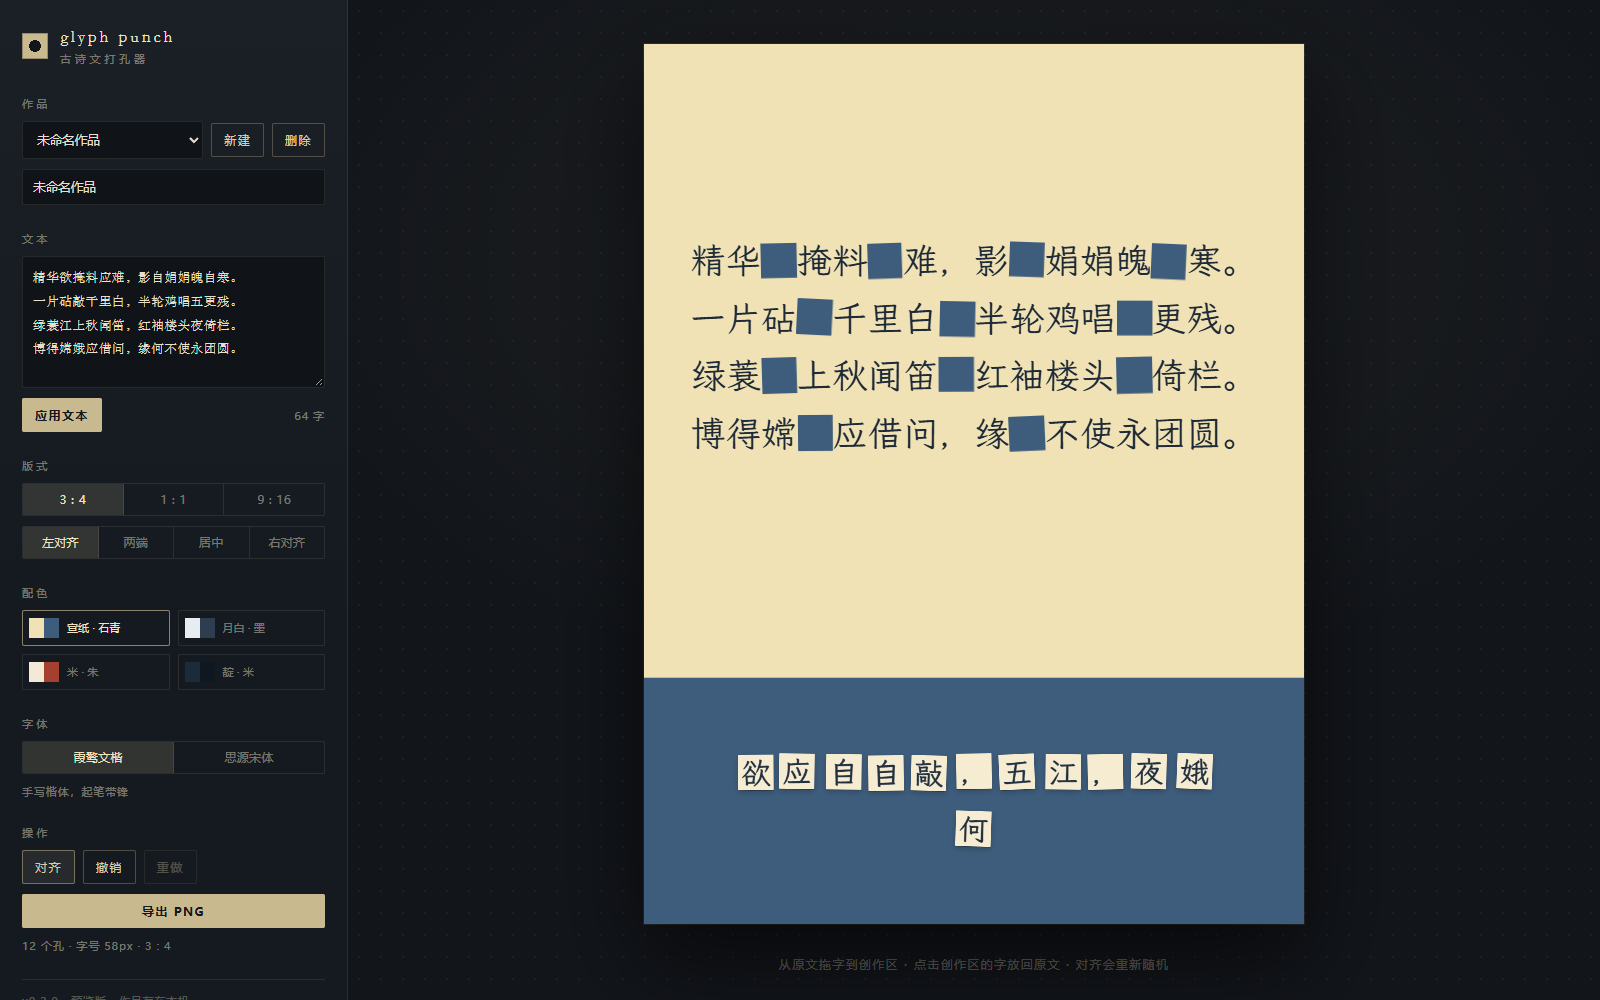
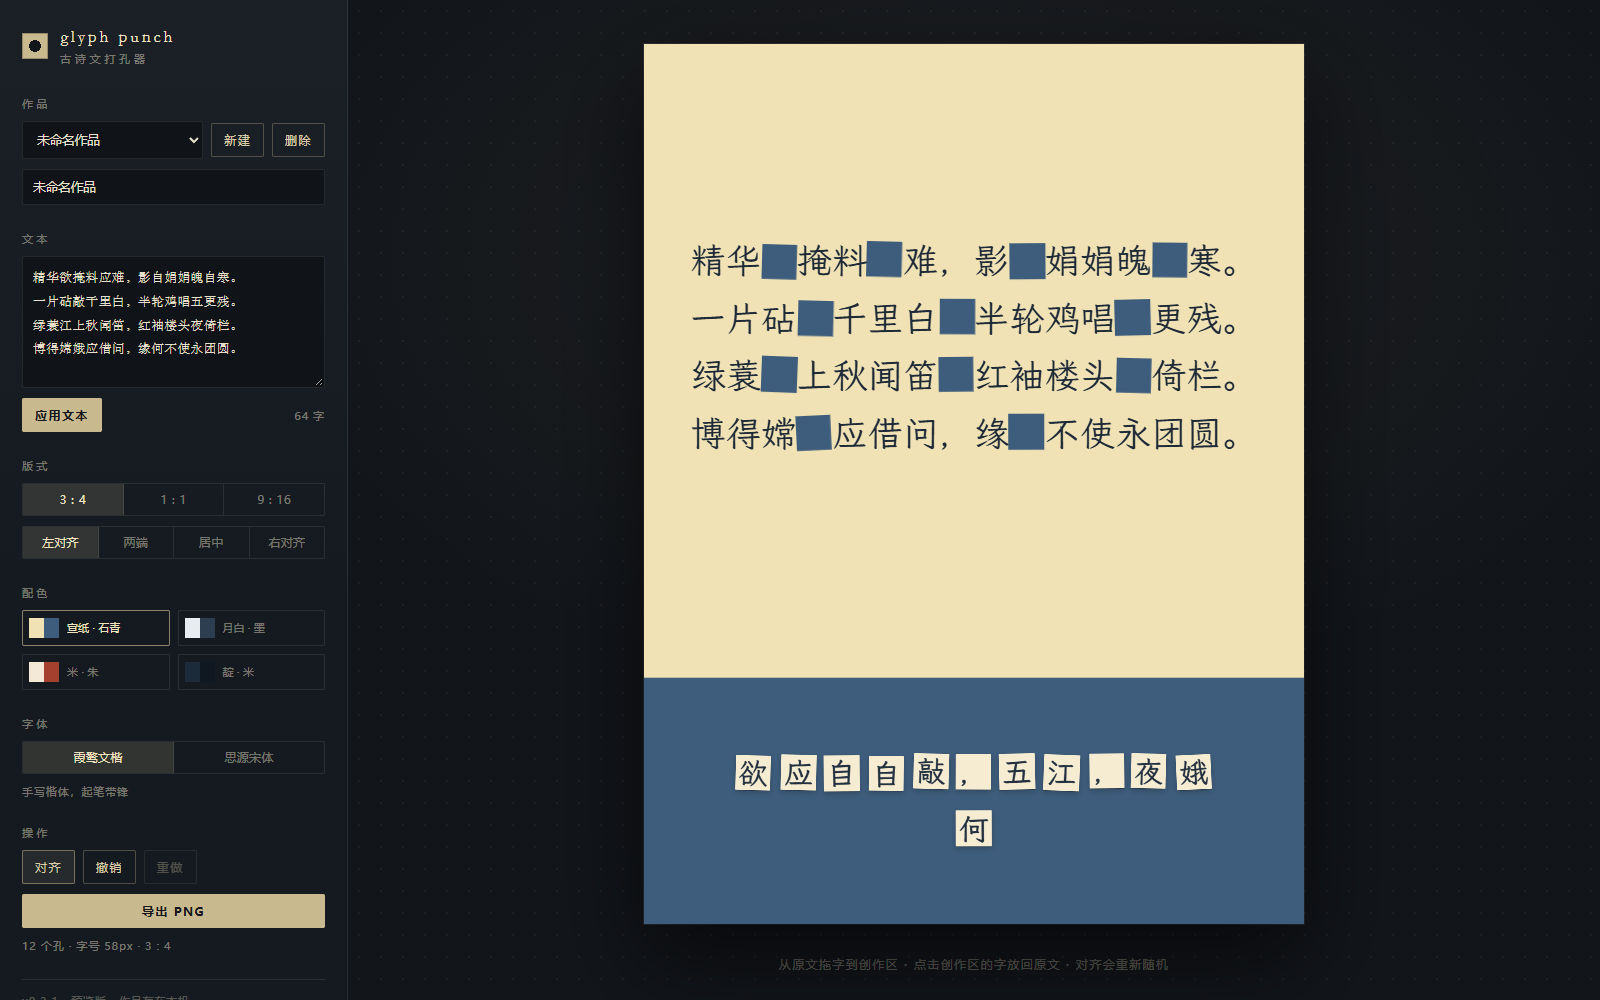
fix: 洞与纸片共用同一组打孔参数 (v0.3.1)
- 抽取 punchJitter：旋转、缩放、偏移、圆角同源
- 纸片尺寸与角度取自同一块料，洞就是被拿走后的样子
- 对齐只改位置，不再重新随机旋转
- 旧作品载入时按 jitter 归一化纸片角度与缩放
- 验证：洞与纸片的 rotate/width 完全一致

diff --git a/src/App.tsx b/src/App.tsx
@@ -2,7 +2,7 @@ import { useEffect, useMemo, useRef, useState } from 'react'
 import Artboard from './Artboard'
 import { exportPng } from './exportPng'
 import { FONT_PACKS, fontPackOf } from './fonts'
-import { hashSeed } from './holes'
+import { hashSeed, punchJitter } from './holes'
 import { alignTiles, computeLayout, flowSlot } from './layout'
 import { initialStore, loadStore, saveStore, type Persisted } from './storage'
 import {
@@ -109,40 +109,38 @@ export default function App() {
     })
   }
 
-  const addTile = (charId: number, x: number, y: number, rot: number) => {
+  const addTile = (charId: number, x: number, y: number, rot: number, scale: number) => {
     const topZ = current.tiles.reduce((max, tile) => Math.max(max, tile.z), 0)
     commit({
       ...current,
       punched: [...current.punched, charId],
-      tiles: [...current.tiles, { charId, x, y, rot, z: topZ + 1 }],
+      tiles: [...current.tiles, { charId, x, y, rot, scale, z: topZ + 1 }],
     })
   }
-
-  const randomRot = () => (Math.random() - 0.5) * 12
 
   const punch = (charId: number) => {
     if (current.punched.includes(charId)) return
     if (board.chars[charId] === '\n') return
     const size = board.layout.size
+    const jitter = punchJitter(charId, seed)
+    const tileSize = size * jitter.scale
     const slot = flowSlot(current.tiles.length, size, board.artW, board.artH, board.compTop)
-    const x = Math.max(
-      0,
-      Math.min(board.artW - size, slot.x + (Math.random() - 0.5) * size * 0.6),
-    )
-    const y = Math.max(
-      board.compTop,
-      Math.min(board.artH - size, slot.y + (Math.random() - 0.5) * size * 0.5),
-    )
-    addTile(charId, x, y, randomRot())
+    const centerX = slot.x + size / 2 + jitter.dx * size
+    const centerY = slot.y + size / 2 + jitter.dy * size
+    const x = Math.max(0, Math.min(board.artW - tileSize, centerX - tileSize / 2))
+    const y = Math.max(board.compTop, Math.min(board.artH - tileSize, centerY - tileSize / 2))
+    addTile(charId, x, y, jitter.rot, jitter.scale)
   }
 
   const punchAt = (charId: number, centerX: number, centerY: number) => {
     if (current.punched.includes(charId)) return
     if (board.chars[charId] === '\n') return
     const size = board.layout.size
-    const x = Math.max(0, Math.min(board.artW - size, centerX - size / 2))
-    const y = Math.max(board.compTop, Math.min(board.artH - size, centerY - size / 2))
-    addTile(charId, x, y, randomRot())
+    const jitter = punchJitter(charId, seed)
+    const tileSize = size * jitter.scale
+    const x = Math.max(0, Math.min(board.artW - tileSize, centerX - tileSize / 2))
+    const y = Math.max(board.compTop, Math.min(board.artH - tileSize, centerY - tileSize / 2))
+    addTile(charId, x, y, jitter.rot, jitter.scale)
   }
 
   const moveTile = (charId: number, x: number, y: number) => {

diff --git a/src/holes.ts b/src/holes.ts
@@ -9,6 +9,15 @@ export interface HoleGeometry {
   radius: number
 }
 
+/** 一块被抠下来的料：洞和纸片共用这一组参数。dx/dy/radius 以字宽为单位。 */
+export interface PunchJitter {
+  dx: number
+  dy: number
+  rot: number
+  scale: number
+  radius: number
+}
+
 /** 稳定的字符串种子，让同一份作品的孔洞抖动始终一致。 */
 export function hashSeed(text: string): number {
   let hash = 2166136261
@@ -30,26 +39,31 @@ function mulberry32(seed: number): () => number {
   }
 }
 
+export function punchJitter(charId: number, seed: number): PunchJitter {
+  const rand = mulberry32((Math.imul(charId + 1, 2654435761) ^ seed) >>> 0)
+  return {
+    dx: (rand() - 0.5) * 0.07,
+    dy: (rand() - 0.5) * 0.07,
+    rot: (rand() - 0.5) * 6,
+    scale: 0.97 + rand() * 0.06,
+    radius: 0.006 + rand() * 0.02,
+  }
+}
+
 /**
- * 手工打孔的抖动：位置、尺寸、旋转、圆角都带一点偏差。
- * 相邻的孔保留各自的偏差，所以整排孔看起来是手抠的，而不是机器切出来的。
+ * 手工打孔：位置、尺寸、旋转、圆角都带一点偏差。
+ * 纸片取同样的 jitter，所以洞就是那块料被拿走后的样子。
  */
 export function holeGeometry(charId: number, seed: number, cell: CharCell): HoleGeometry {
-  const rand = mulberry32((Math.imul(charId + 1, 2654435761) ^ seed) >>> 0)
-  const size = cell.size
-  const width = size * (0.97 + rand() * 0.06)
-  const height = size * (0.97 + rand() * 0.06)
-  const dx = (rand() - 0.5) * size * 0.07
-  const dy = (rand() - 0.5) * size * 0.07
-  const rot = (rand() - 0.5) * 6
-  const radius = size * (0.006 + rand() * 0.02)
-
+  const jitter = punchJitter(charId, seed)
+  const width = cell.size * jitter.scale
+  const height = width
   return {
-    left: cell.x + (size - width) / 2 + dx,
-    top: cell.y + (size - height) / 2 + dy,
+    left: cell.x + (cell.size - width) / 2 + jitter.dx * cell.size,
+    top: cell.y + (cell.size - height) / 2 + jitter.dy * cell.size,
     width,
     height,
-    rot,
-    radius,
+    rot: jitter.rot,
+    radius: jitter.radius * cell.size,
   }
 }

diff --git a/src/Artboard.tsx b/src/Artboard.tsx
@@ -231,8 +231,10 @@ export default function Artboard({
       onReturnTile(dragging.charId)
       return
     }
-    const nextX = Math.max(0, Math.min(artW - size, dragging.tileX + dx))
-    const nextY = Math.max(compTop, Math.min(artH - size, dragging.tileY + dy))
+    const dragged = work.tiles.find((tile) => tile.charId === dragging.charId)
+    const tileSize = size * (dragged?.scale ?? 1)
+    const nextX = Math.max(0, Math.min(artW - tileSize, dragging.tileX + dx))
+    const nextY = Math.max(compTop, Math.min(artH - tileSize, dragging.tileY + dy))
     onMoveTile(dragging.charId, nextX, nextY)
   }
 
@@ -276,6 +278,7 @@ export default function Artboard({
         const isDragging = tileDrag?.charId === tile.charId
         const left = isDragging ? tile.x + tileDrag.dx : tile.x
         const top = isDragging ? tile.y + tileDrag.dy : tile.y
+        const tileSize = size * tile.scale
         return (
           <div
             key={tile.charId}
@@ -283,13 +286,13 @@ export default function Artboard({
             style={{
               left,
               top,
-              width: size,
-              height: size,
+              width: tileSize,
+              height: tileSize,
               transform: `rotate(${tile.rot}deg)`,
               zIndex: isDragging ? 999 : tile.z,
               background: palette.chip,
               color: palette.chipInk,
-              fontSize: size * 0.82,
+              fontSize: tileSize * 0.82,
               fontWeight: 600,
               fontFamily: fontStack,
             }}

diff --git a/src/storage.ts b/src/storage.ts
@@ -1,4 +1,5 @@
 import { DEFAULT_FONT_ID } from './fonts'
+import { hashSeed, punchJitter } from './holes'
 import { createWork, type Work } from './types'
 
 const KEY = 'glyph-punch.v1'
@@ -14,10 +15,22 @@ export function loadStore(): Persisted | null {
     if (!raw) return null
     const parsed = JSON.parse(raw) as Persisted
     if (!Array.isArray(parsed.works) || parsed.works.length === 0) return null
-    parsed.works = parsed.works.map((work) => ({
-      ...work,
-      fontId: work.fontId ?? DEFAULT_FONT_ID,
-    }))
+    parsed.works = parsed.works.map((work) => {
+      const seed = hashSeed(work.id)
+      return {
+        ...work,
+        fontId: work.fontId ?? DEFAULT_FONT_ID,
+        tiles: (work.tiles ?? []).map((tile) => {
+          const jitter = punchJitter(tile.charId, seed)
+          return {
+            ...tile,
+            // 旋转角统一回打孔抖动，保证洞和纸片是同一块料。
+            rot: jitter.rot,
+            scale: tile.scale ?? jitter.scale,
+          }
+        }),
+      }
+    })
     if (!parsed.works.some((work) => work.id === parsed.currentId)) {
       parsed.currentId = parsed.works[0].id
     }

diff --git a/src/exportPng.ts b/src/exportPng.ts
@@ -69,20 +69,21 @@ export async function exportPng(
   ctx.fillRect(0, compTop, artW, artH - compTop)
 
   for (const tile of work.tiles) {
-    const cx = tile.x + size / 2
-    const cy = tile.y + size / 2
+    const tileSize = size * tile.scale
+    const cx = tile.x + tileSize / 2
+    const cy = tile.y + tileSize / 2
     ctx.save()
     ctx.translate(cx, cy)
     ctx.rotate((tile.rot * Math.PI) / 180)
     ctx.shadowColor = 'rgba(0,0,0,0.28)'
-    ctx.shadowBlur = size * 0.18
-    ctx.shadowOffsetY = size * 0.06
+    ctx.shadowBlur = tileSize * 0.18
+    ctx.shadowOffsetY = tileSize * 0.06
     ctx.fillStyle = palette.chip
-    ctx.fillRect(-size / 2, -size / 2, size, size)
+    ctx.fillRect(-tileSize / 2, -tileSize / 2, tileSize, tileSize)
     ctx.shadowColor = 'transparent'
     ctx.fillStyle = palette.chipInk
-    ctx.font = `600 ${size * 0.82}px ${fontStack}`
-    ctx.fillText(chars[tile.charId] ?? '', 0, size * 0.02)
+    ctx.font = `600 ${tileSize * 0.82}px ${fontStack}`
+    ctx.fillText(chars[tile.charId] ?? '', 0, tileSize * 0.02)
     ctx.restore()
   }
 

diff --git a/src/layout.ts b/src/layout.ts
@@ -192,7 +192,9 @@ export function alignTiles(
         ...tile,
         x: startX + i * (size + gap) + rand(-size * 0.04, size * 0.04),
         y: rowY + rand(-size * 0.05, size * 0.05),
-        rot: rand(-2.6, 2.6),
+        // 旋转角来自这块料的打孔抖动，不能被对齐重新随机，
+        // 否则洞和纸片就不是同一块了。
+        rot: tile.rot,
       })
     })
   })

diff --git a/src/types.ts b/src/types.ts
@@ -78,6 +78,7 @@ export interface Tile {
   x: number
   y: number
   rot: number
+  scale: number
   z: number
 }
 

diff --git a/docs/PRD.md b/docs/PRD.md
@@ -106,6 +106,7 @@ interface Tile {
 - 点击创作区的纸片：弹回原文，填回原来的洞。
 - 拖动纸片：自由移动，落点限制在创作区内；拖进原文区松手也会回填。
 - 洞的形状带手作抖动：每张孔有独立的旋转（±3°）、偏移、尺寸与圆角，相邻孔可以互相压边，形成毛边而不是机器切口。抖动由作品 ID 定种子，刷新与导出结果一致。
+- 洞与纸片共用同一组 jitter：纸片的旋转角、尺寸、相对落位偏移都取自这块料的打孔参数，所以“抠下来的”和“掉下去的”是同一块；对齐只改位置，不重新随机旋转角。
 - 拖动纸片：自由移动，限制在画板内。
 - 拖进原文区松手：纸片回到它自己的洞。
 - 「对齐」：重新分行、吸基线、均分，附加随机位移与旋转。

diff --git a/README.md b/README.md
@@ -15,6 +15,7 @@
 - 粘贴文本，保留换行；字号自动适配，保证诗句不折行
 - 单字点击打孔（自动落位）；或从原文直接把字拖到创作区，松手位置就是落点
 - 每次取字都带随机角度与偏移；孔洞带手作抖动（旋转、偏移、互相压边）
+- **洞与纸片共用同一组抖动参数**：角度、尺寸、偏移同源，抠出来的就是掉下去的那一块
 - 点击创作区的纸片即可弹回原文，也可以拖回原文区回填
 - 一键对齐：行识别 → 吸基线 → 行内均分 → 附加随机位移与旋转（每次重摇）
 - 画板 3:4 / 1:1 / 9:16，切换时纸片按比例重映射
